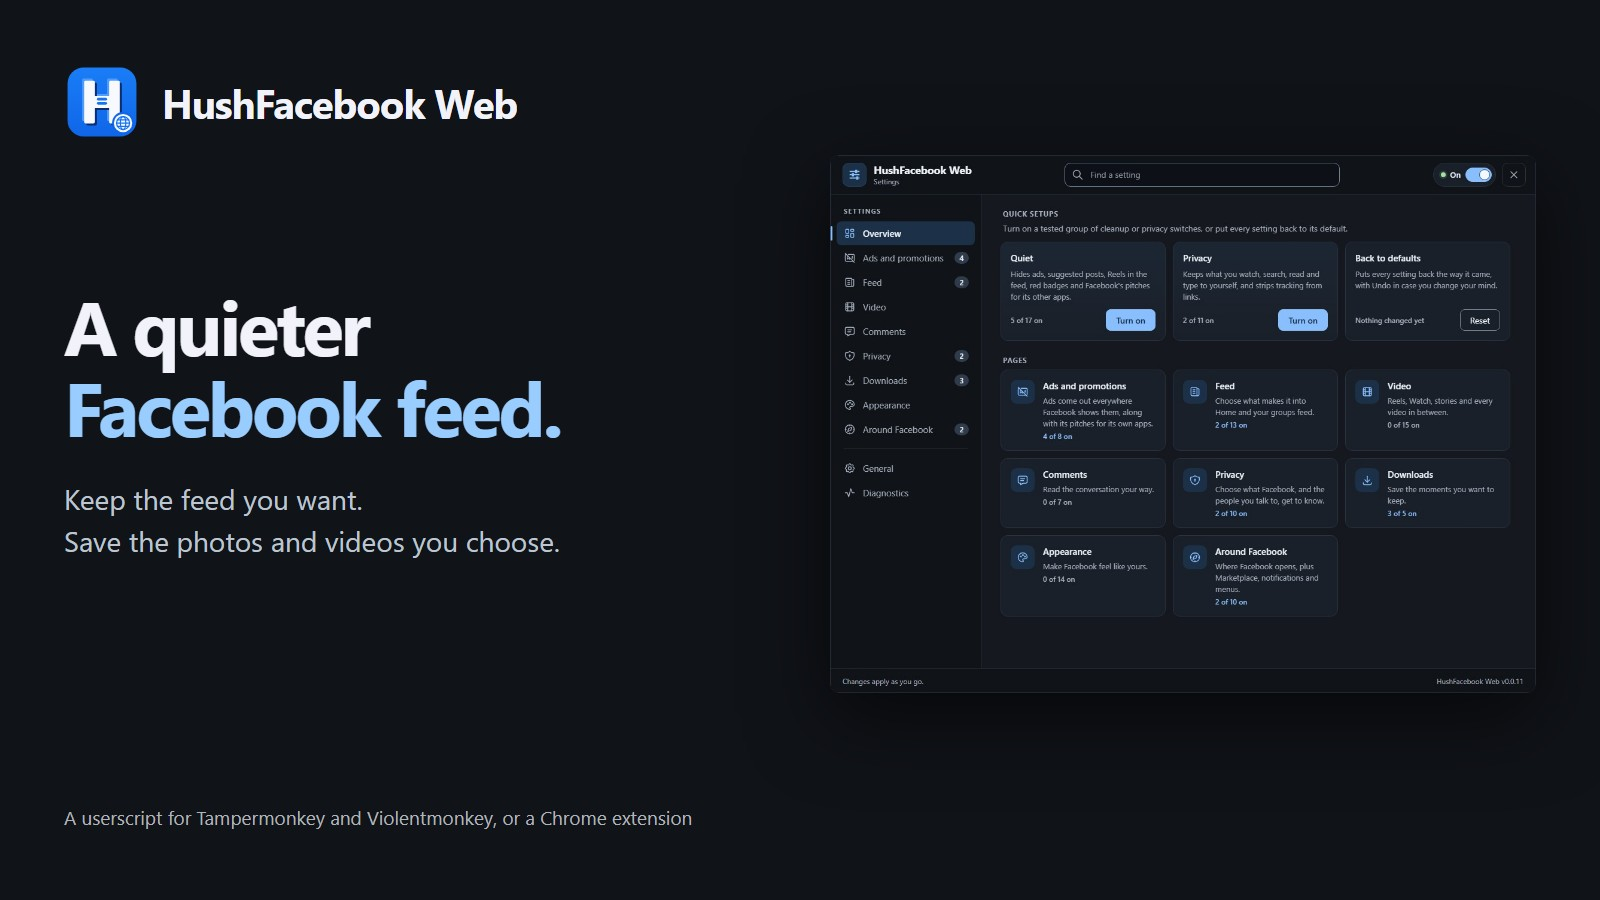
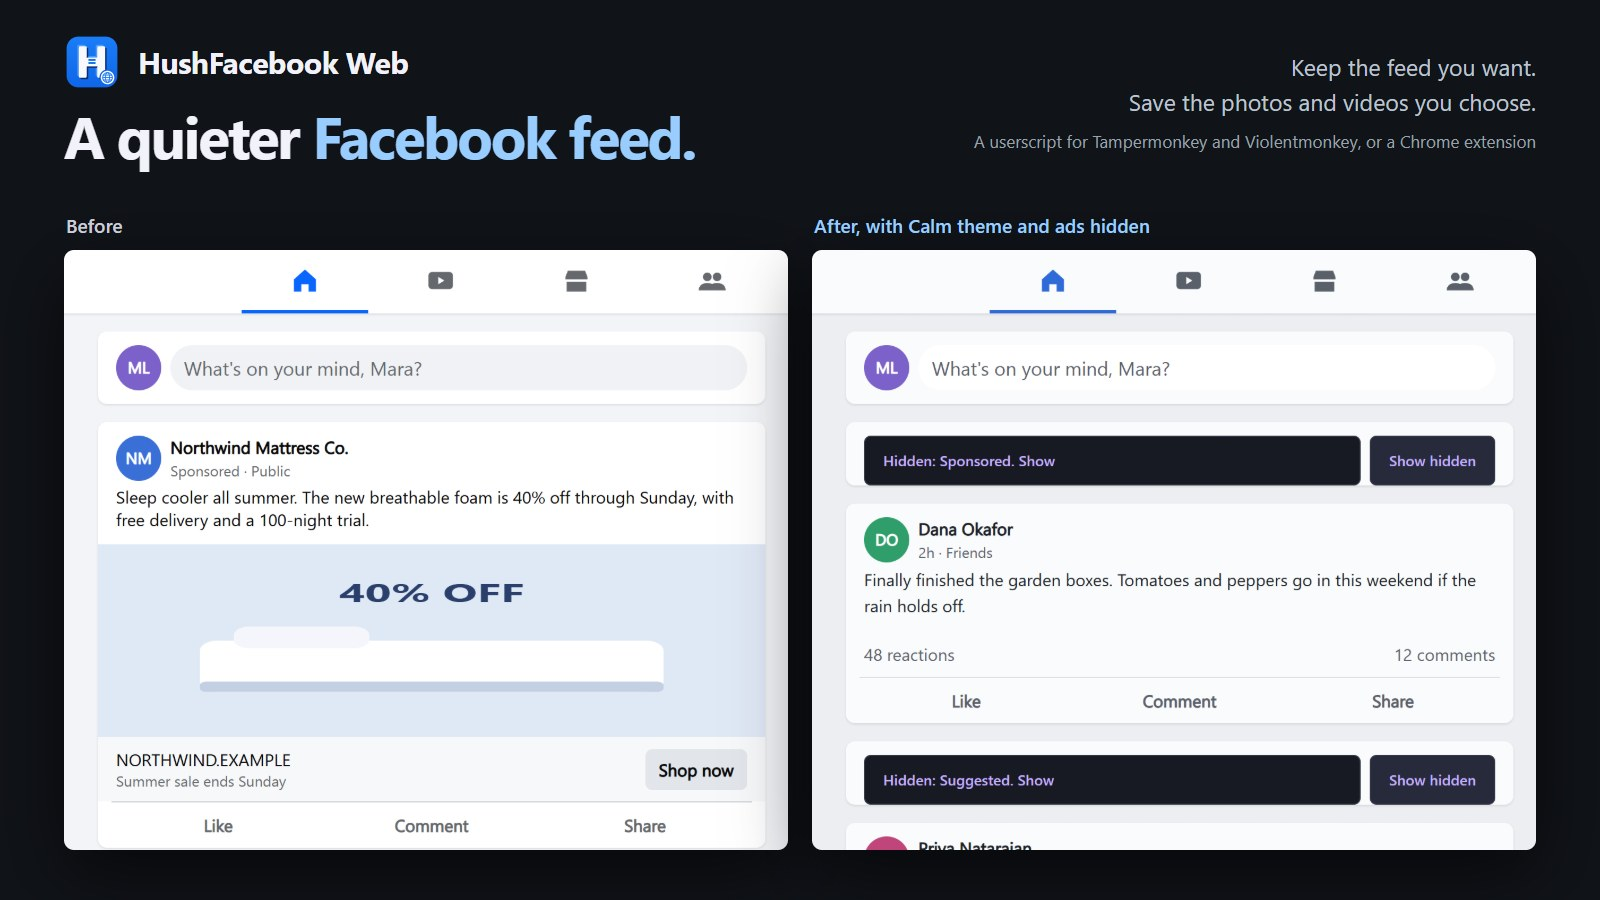
docs(readme): show the feed before and after in the hero, and the top-bar gear
The pictures showed only the settings panel. The hero is now the same Home feed
twice, from a Facebook-shaped page with invented people run through the built
userscript: an ad on top, then Calm theme with the ad and a suggested post
folded into notes. A crop of the top bar shows where the gear sits.

diff --git a/README.md b/README.md
@@ -1,4 +1,4 @@
-![HushFacebook Web. A quieter Facebook feed.](assets/readme-hero.jpg)
+![HushFacebook Web, a quieter Facebook feed. The same Home feed twice, first with an ad at the top, then with Calm theme on and the ad and a suggested post folded into short notes.](assets/readme-hero.jpg)
 
 <p>
   <img src="https://img.shields.io/badge/version-0.0.17-8ABFFF" alt="Version 0.0.17">
@@ -52,6 +52,8 @@ A loaded-unpacked extension can't update itself, so once a day it asks GitHub fo
 Unzipping over the same folder keeps everything it remembers, down to your video speed. The browser ties an unpacked extension's storage to its folder, though. Load it from another folder, or remove it and load it again, and it starts from scratch. So before you move or remove it, click **Back up settings** in General and then restore that file in the new copy. Moving from the userscript works the same way. Back up in the userscript's settings, turn the userscript off in your manager, and restore the file in the extension. A backup holds your choices only. Seen posts, saved video spots, speed and volume stay behind.
 
 ## Settings
+
+<img src="assets/screenshots/top-bar-gear.png" width="320" alt="The gear HushFacebook Web adds to the right end of Facebook's top bar, left of the menu, Messenger and Notifications buttons">
 
 Press and hold the Facebook logo at the top left to open settings. You can also click the gear in Facebook's top bar, next to Messenger and Notifications, or use the HushFacebook Web row in the menu under your profile picture. Your userscript manager's menu has a settings entry too, and in the extension the toolbar button opens them from any tab.
 
